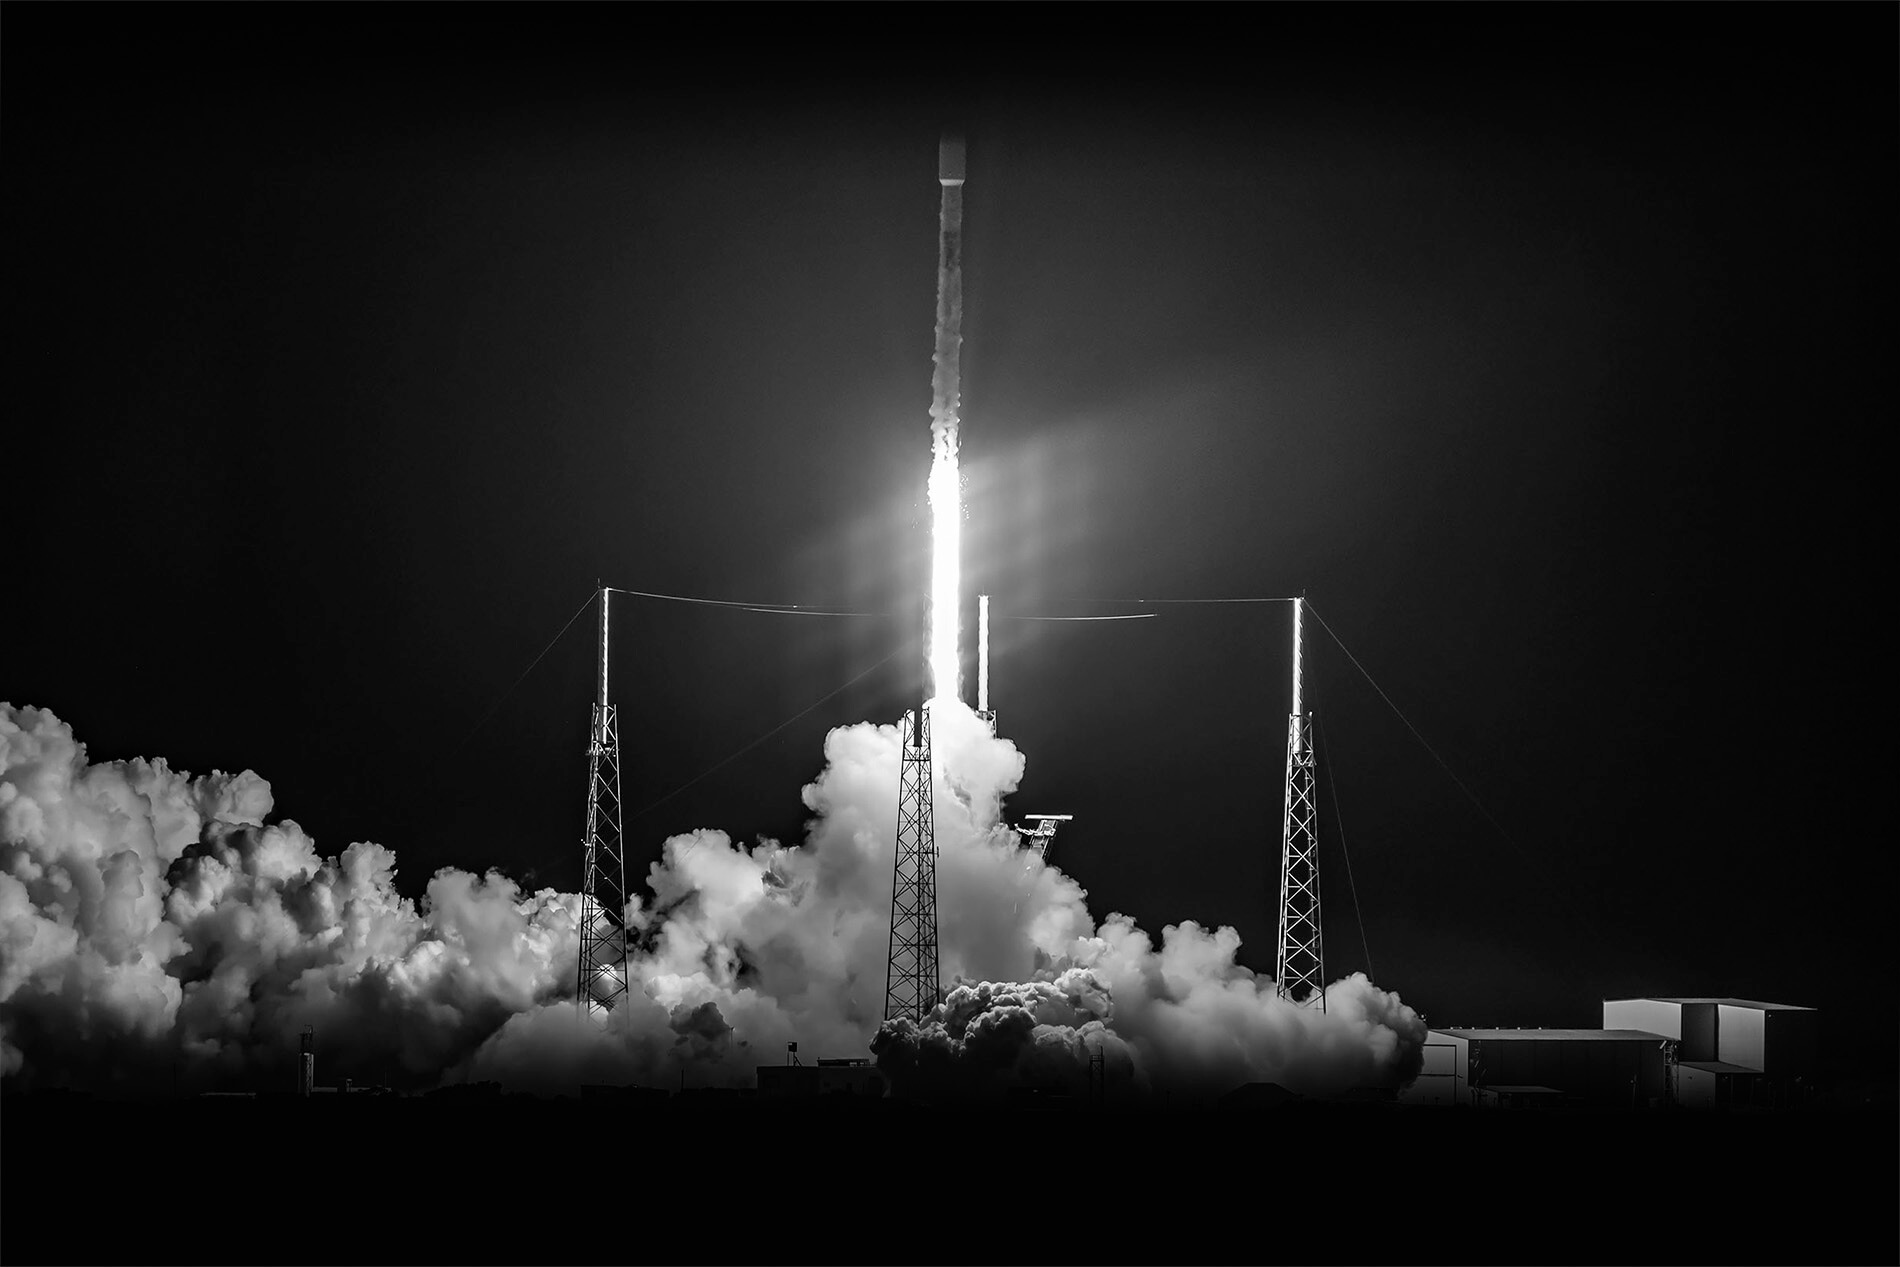
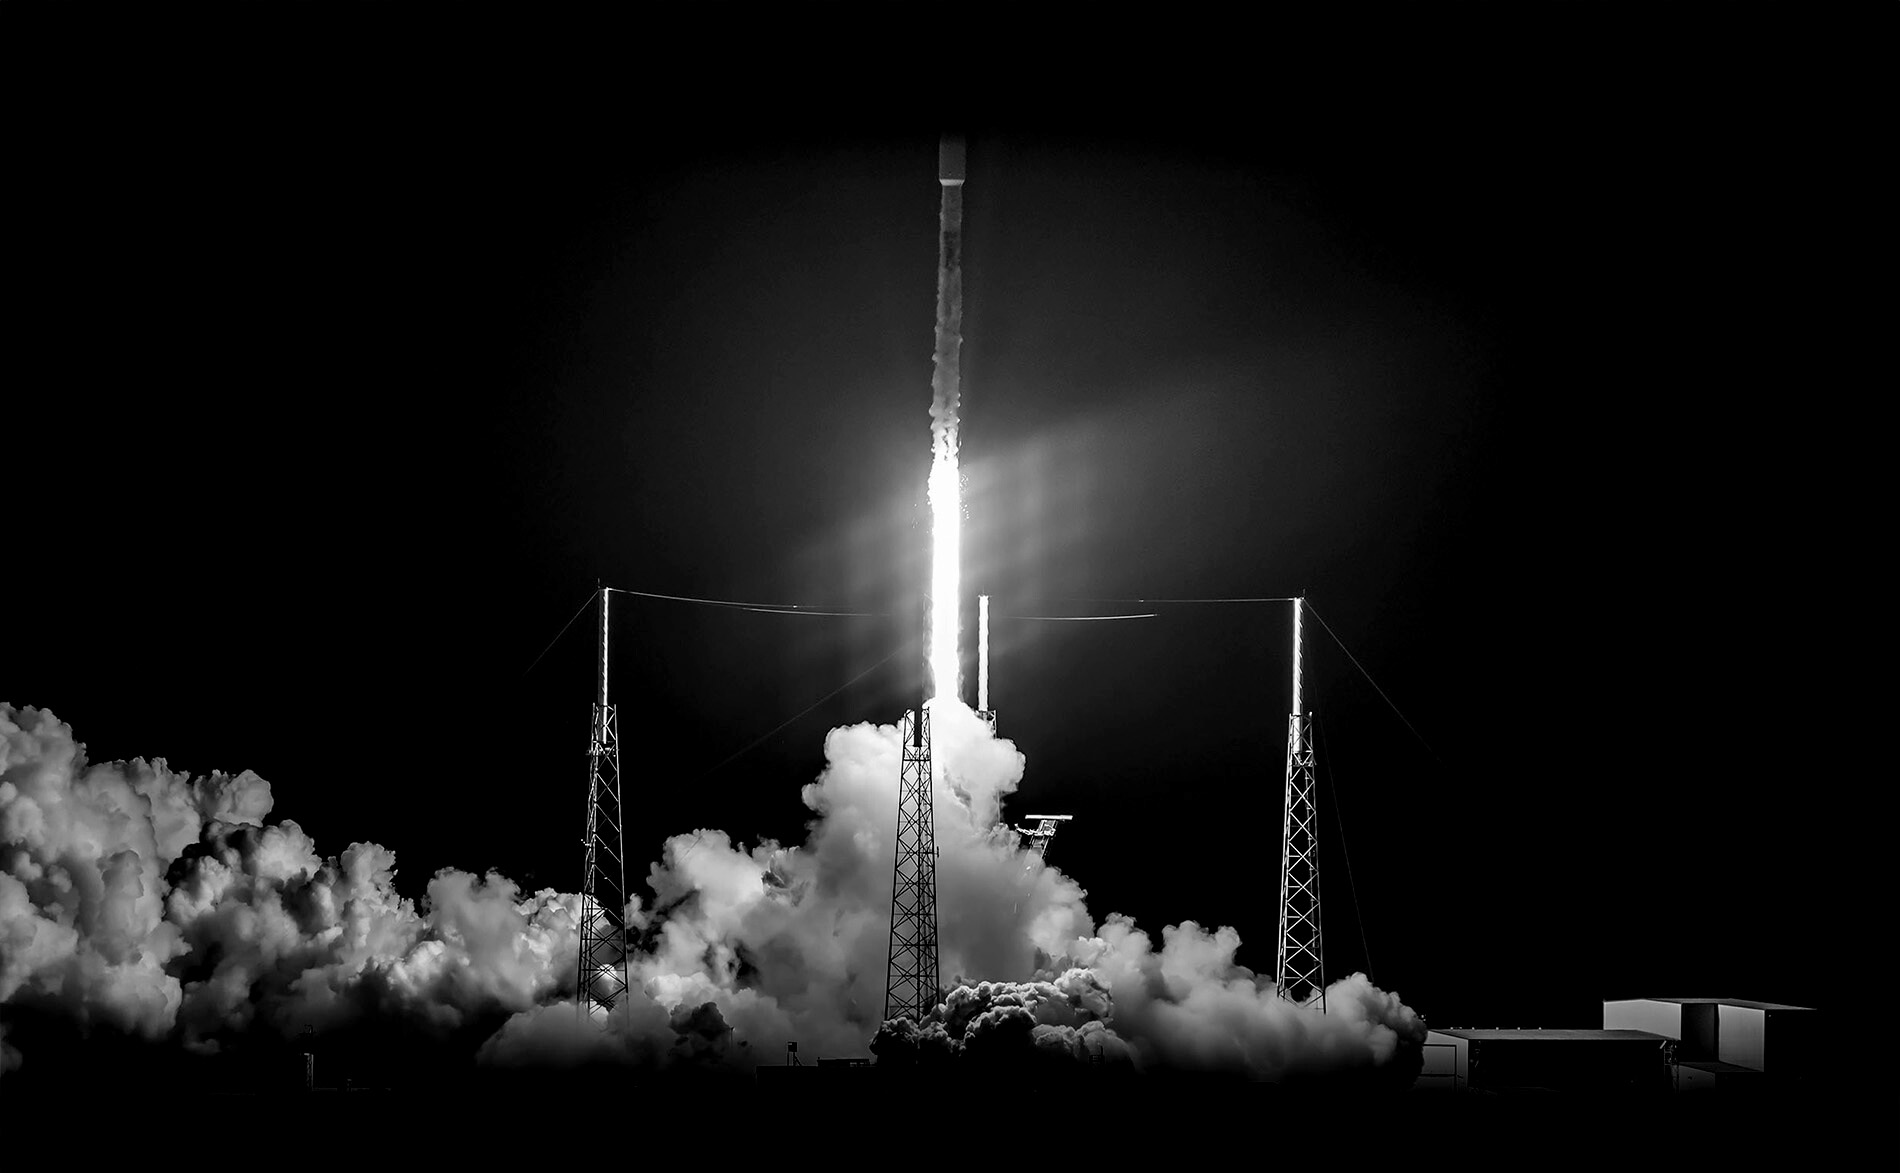
Refactor: Changed to  greyscale image in footer

Changed region(s): [[0.0, 0.0921, 0.9316, 0.9207], [0.9937, 0.9821, 1.0, 1.0], [0.0, 0.89, 0.0311, 0.9207]]

diff --git a/index.html b/index.html
@@ -306,7 +306,7 @@
         <footer>
             <div class="pre-footer">
                 <img
-                    src="img/photos/footer.jpg"
+                    src="img/photos/footer_grey.jpg"
                     alt="Our Falcon 9 rocket during launch"
                 />
                 <div class="spacer-line"></div>
